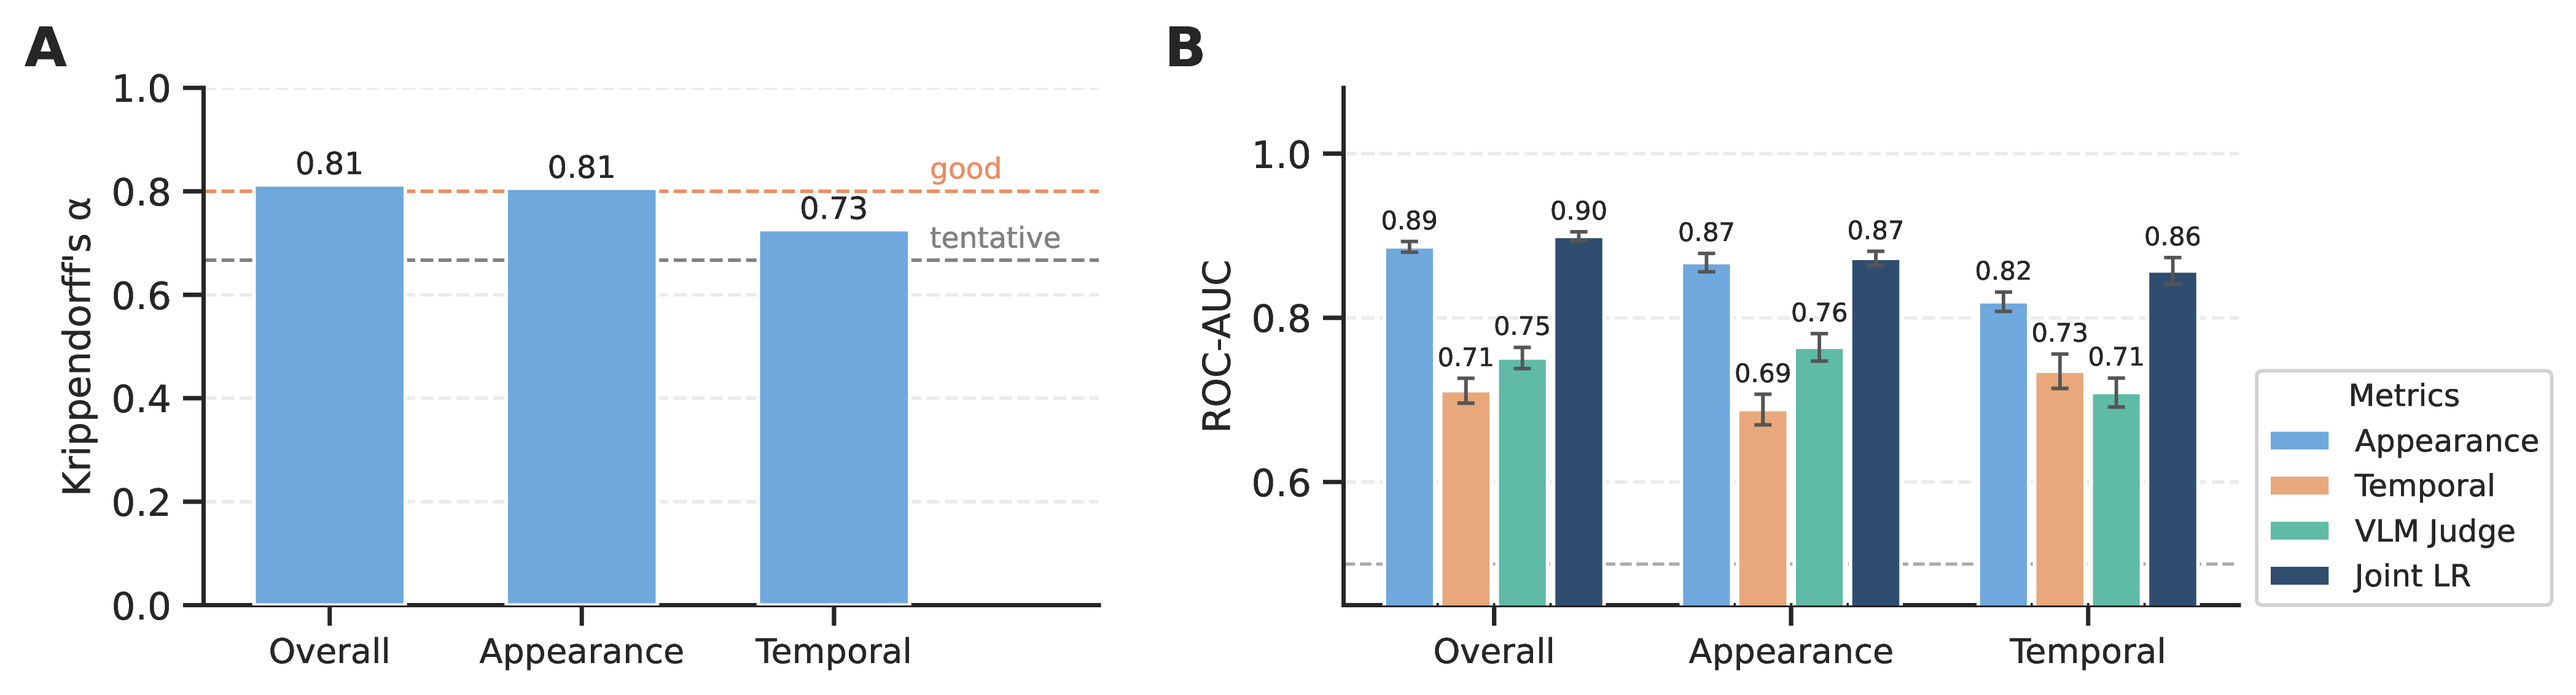
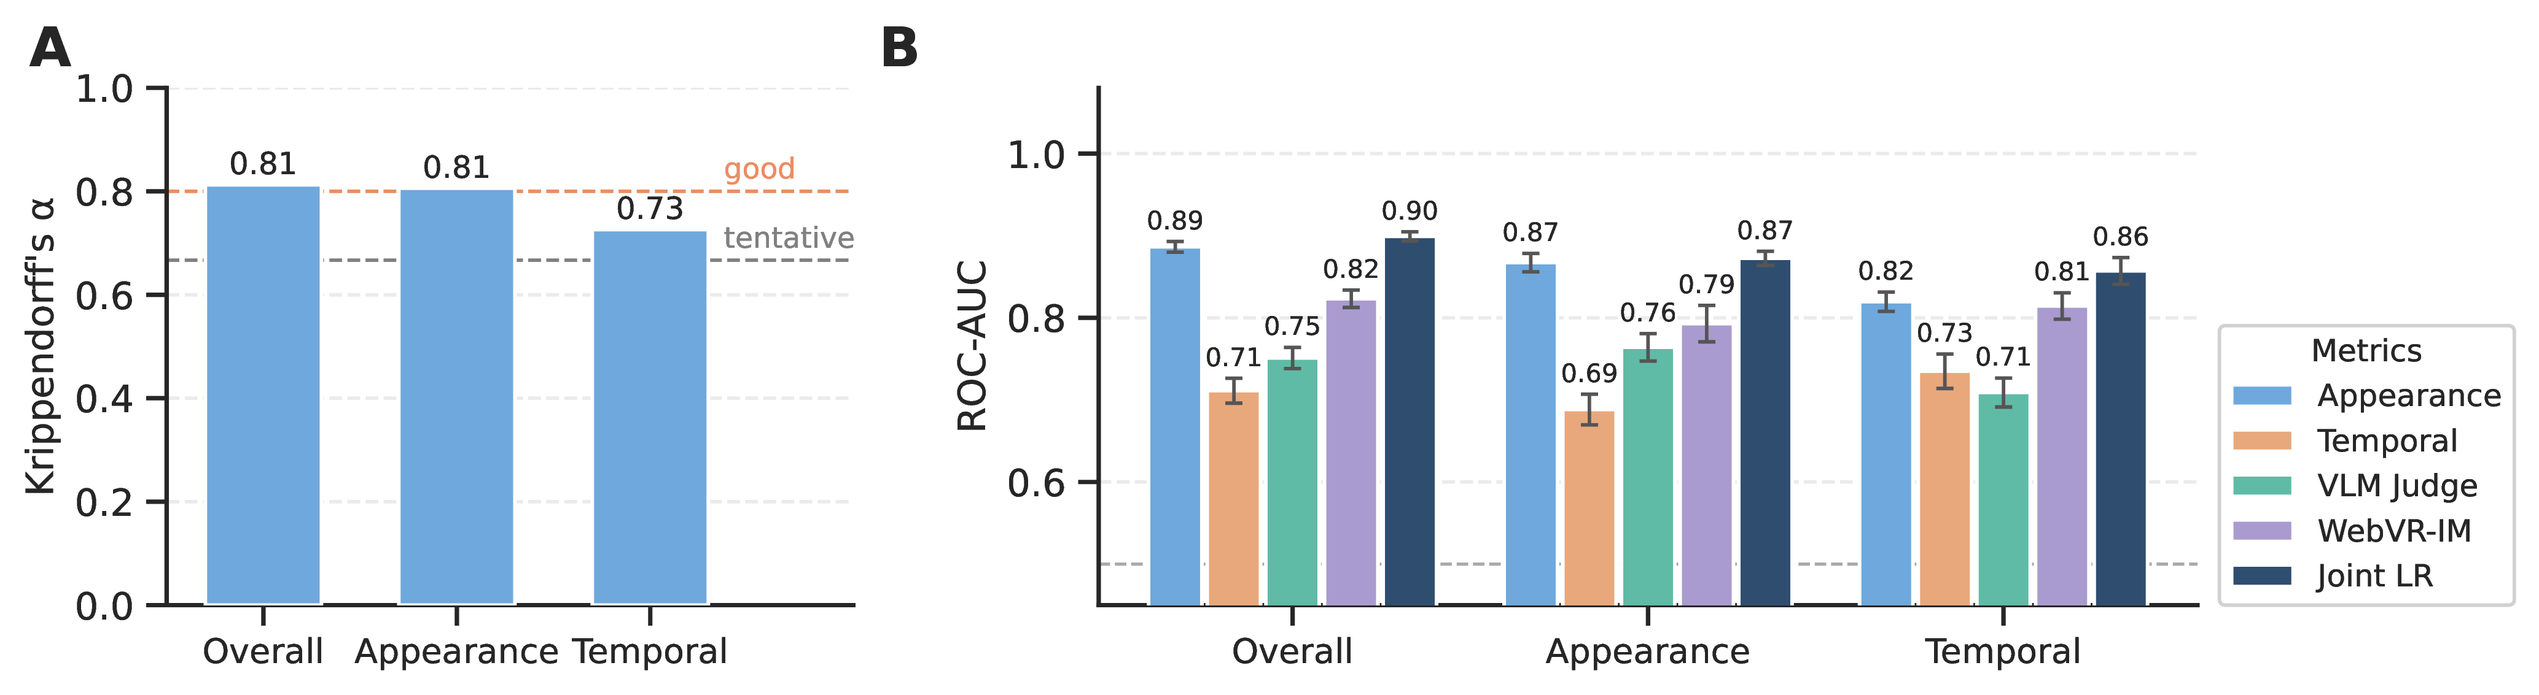
Update human evaluation figure and text with WebVR-IM baseline

diff --git a/index.html b/index.html
@@ -350,15 +350,16 @@
           We collected <b>600 pairwise preference comparisons</b> from 65 Prolific annotators across overall quality,
           appearance, and temporal similarity. Inter-annotator agreement is strong for overall and appearance
           (Krippendorff's α = 0.81) and lower but reliable for temporal (0.73) — motion is inherently harder to judge.
-          Our automatic metrics predict human preference better than a VLM-as-a-judge baseline in their respective
-          dimensions.
+          The appearance metric achieves strong agreement with human preferences, matching or outperforming both
+          VLM-based baselines across all three dimensions. Combining both metrics with logistic regression (Joint LR)
+          achieves best agreement with human annotations across all dimensions.
         </p>
       </div>
       <figure class="figure-block">
-        <img src="static/images/figures/human_eval.png" alt="Inter-annotator agreement and ROC-AUC of metrics against human preference." loading="lazy"/>
+        <img src="static/images/figures/human_eval.png?v=2" alt="Inter-annotator agreement and ROC-AUC of metrics against human preference." loading="lazy"/>
         <figcaption class="figure-caption">
           (A) Inter-annotator agreement per judgment dimension. (B) ROC-AUC for predicting human preference from
-          metric deltas, VLM annotations, and a joint logistic regression.
+          metric deltas, two VLM-based baselines (VLM Judge and WebVR-IM), and a joint logistic regression.
         </figcaption>
       </figure>
     </div>
